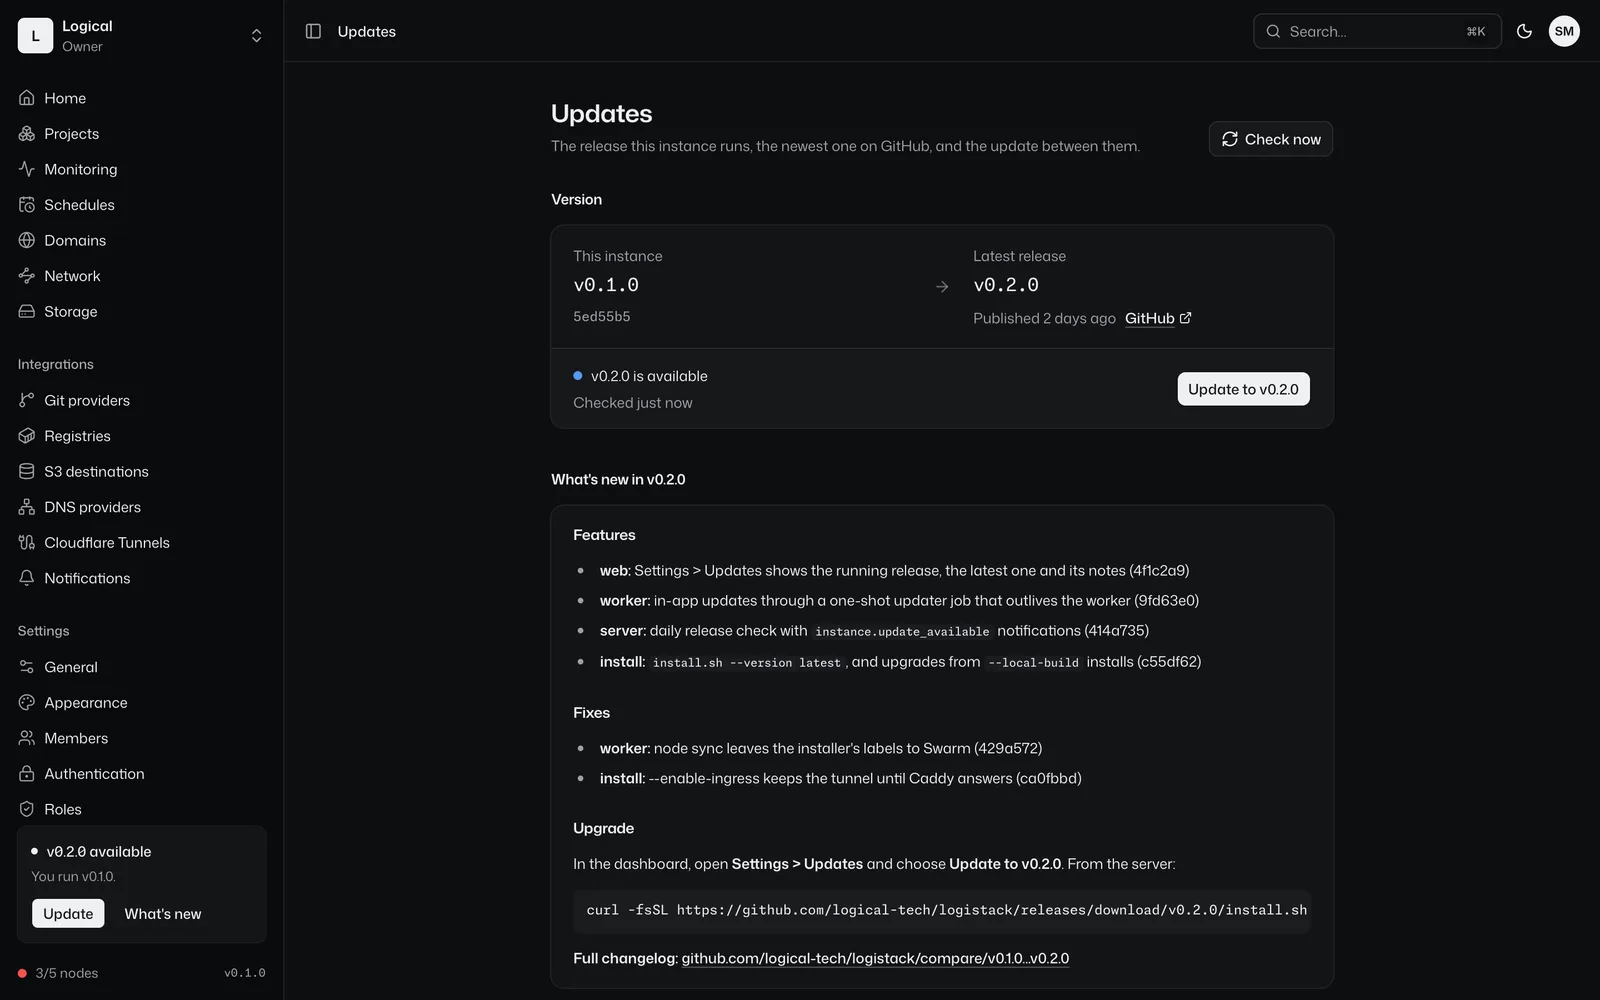
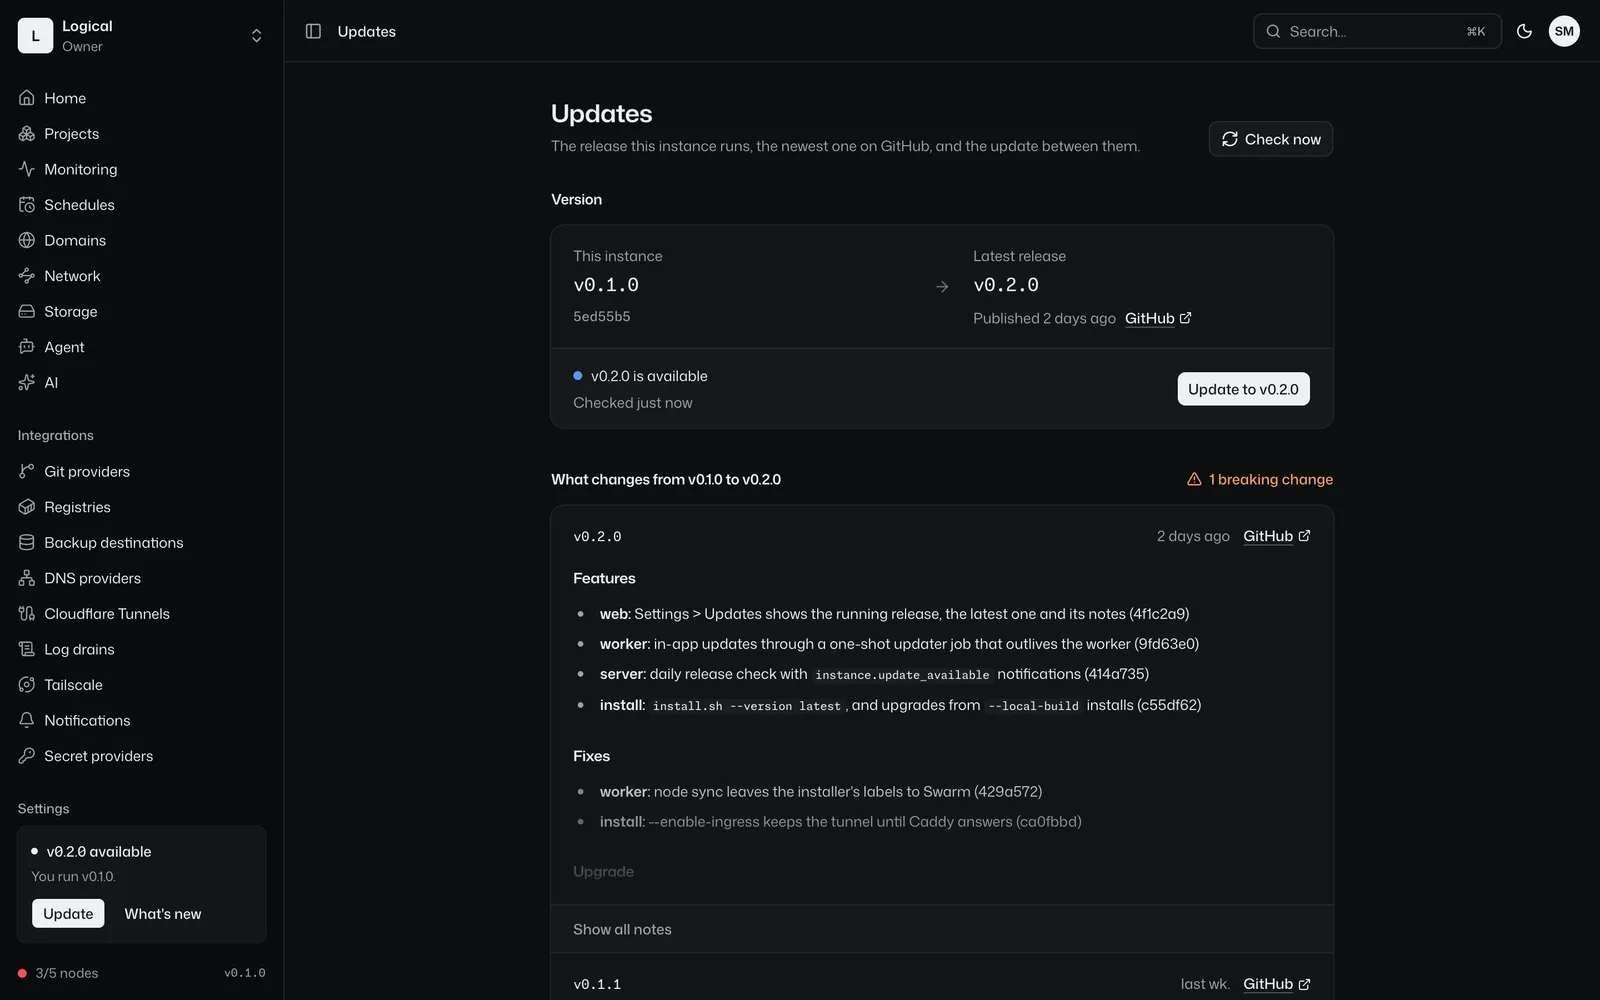
docs: security model, ten-minute migration, no license gates, release channels
Three docs-site pages: how LogiStack avoids shell injection and scopes cleanup, with a
sober comparison against Coolify's and Dokploy's published advisories; the short path
from Dokploy or Coolify through the migration wizard; and what is free under Apache 2.0.
The Updates page covers channels and the changelog, with new screenshots. site/ repeats
the messages in the reconciler table, the migrate section and the FAQ.

diff --git a/site/src/content/faq.ts b/site/src/content/faq.ts
@@ -6,7 +6,7 @@ export const faq = [
 	},
 	{
 		q: "Is LogiStack free?",
-		a: "Yes. LogiStack is open source under the Apache 2.0 license, and every feature is in the build you install: SSO, custom roles, the audit log and multi-node clusters included. There is no paid edition. Sponsors fund development.",
+		a: "Yes. LogiStack is open source under the Apache 2.0 license, and every feature is in the build you install: SSO, custom roles, the audit log and multi-node clusters included. There is no paid edition and no license check in the code; SSO, the audit log and custom roles are not held back under a separate license. Sponsors fund development.",
 	},
 	{
 		q: "What do I need to run it?",
@@ -21,8 +21,12 @@ export const faq = [
 		a: "Postgres, MySQL, MariaDB, MongoDB, Redis and libSQL in one click, each with a built-in editor for tables, keys and documents, scheduled encrypted backups and restore.",
 	},
 	{
-		q: "Can I move from another self-hosted PaaS?",
-		a: "Yes. The importer reads existing projects, env vars and domains, freezes the old setup and moves services one at a time. Each service can be rolled back until you switch the old platform off.",
+		q: "Can I move from Dokploy or Coolify?",
+		a: "Yes, on the same server. Install LogiStack next to Dokploy or Coolify v4 and a wizard reads its projects, databases, env vars and domains, moves services one at a time and then switches ports 80 and 443. Each service can be moved back until you remove the old platform.",
+	},
+	{
+		q: "How does LogiStack avoid the security problems of other PaaS tools?",
+		a: "Most public advisories against self-hosted PaaS tools are root command injection through shell strings and authorization checks missing between teams. LogiStack never builds shell commands from your input: it calls Docker through its API and other tools with argument lists. Every route checks the action and the scope it acts on, cleanup only touches objects LogiStack labeled, and database migrations only add, so a rollback keeps working.",
 	},
 	{
 		q: "Does it work with AI coding agents?",

diff --git a/site/src/components/sections/migrate.tsx b/site/src/components/sections/migrate.tsx
@@ -1,3 +1,4 @@
+import { site } from "@/content/site";
 import { Dither } from "../dither";
 import { Section } from "../ui";
 
@@ -19,10 +20,11 @@ export function Migrate() {
 						Move over one service at a time.
 					</h2>
 					<p className="text-lg leading-relaxed text-fg/90">
-						Already running another self-hosted PaaS? The importer reads its
-						projects, env vars and domains. It freezes the old setup, then moves
-						services across when you say so. The old platform keeps serving
-						until you switch it off.
+						Running Dokploy or Coolify? Install LogiStack next to it and a
+						wizard reads its projects, databases, env vars and domains, then
+						moves services across when you say so. The old platform keeps
+						serving until you switch traffic, and the clicks take about ten
+						minutes.
 					</p>
 					<ol className="flex flex-col gap-3 pt-2">
 						{steps.map(([name, what]) => (
@@ -35,6 +37,12 @@ export function Migrate() {
 							</li>
 						))}
 					</ol>
+					<a
+						href={`${site.docs}operations/migrate-in-ten-minutes/`}
+						className="w-fit text-[15px] font-medium underline decoration-fg/30 underline-offset-4 hover:decoration-fg"
+					>
+						Read the ten-minute migration guide
+					</a>
 				</div>
 				<figure
 					data-ui

diff --git a/docs-site/scripts/screenshots.ts b/docs-site/scripts/screenshots.ts
@@ -111,6 +111,8 @@ export const shots: Record<string, Shot> = {
 	"certificate-origin": "/settings/certificates/origin",
 	"settings-ssh-keys": "/settings/ssh-keys",
 	"settings-updates": "/settings/updates",
+	"settings-updates-changelog": "/settings/updates#changelog",
+	"settings-updates-channel": "/settings/updates#settings",
 	"settings-appearance": "/settings/appearance",
 	"settings-variables": "/settings/variables",
 	"settings-audit-log": "/settings/audit-log",
@@ -126,6 +128,10 @@ export const shots: Record<string, Shot> = {
 	"dns-record-edit": {
 		path: "/integrations/dns/dns_cf_logical/z_logical",
 		click: ["Add record"],
+	},
+	"settings-updates-confirm": {
+		path: "/settings/updates",
+		click: ["Update to v0.2.0"],
 	},
 	"certificate-authority": {
 		path: "/settings/certificates",

diff --git a/site/src/components/sections/closing.tsx b/site/src/components/sections/closing.tsx
@@ -48,9 +48,10 @@ const columns = [
 		[
 			["Documentation", site.docs],
 			["Install", `${site.docs}getting-started/install/`],
-			["Migrate", `${site.docs}operations/migrate-from-dokploy/`],
+			["Migrate", `${site.docs}operations/migrate-in-ten-minutes/`],
 			["Releases", `${site.github}/releases`],
-			["Security", `${site.github}/security`],
+			["Security model", `${site.docs}reference/security-model/`],
+			["No license gates", `${site.docs}reference/no-license-gates/`],
 		],
 	],
 	[

diff --git a/site/src/components/sections/reconciler.tsx b/site/src/components/sections/reconciler.tsx
@@ -17,6 +17,16 @@ const compare = [
 		"On the node that holds the data",
 	],
 	[
+		"A branch is named feature/$(id)",
+		"Can end up in a shell command run as root",
+		"One argv entry, never a shell string",
+	],
+	[
+		"Cleanup runs on a shared server",
+		"Can remove containers and volumes it didn't create",
+		"Only touches objects labeled logistack.managed",
+	],
+	[
 		"You need SSO, roles and an audit log",
 		"Often a paid plan",
 		"In the open-source build, free",

diff --git a/site/src/content/features.ts b/site/src/content/features.ts
@@ -425,7 +425,7 @@ export const areas = (templates: number): Area[] => [
 			],
 			[
 				"Updates",
-				"See what a release changes and update in one click. Choose the stable or beta channel.",
+				"Read the changelog of every release an update crosses, breaking changes first, then update in one click. Choose the stable, beta or nightly channel.",
 			],
 			[
 				"Light and dark",

diff --git a/CONTRIBUTING.md b/CONTRIBUTING.md
@@ -38,6 +38,7 @@ bun run check
 - Never build shell strings. Call Docker through the Engine API and other tools with `Bun.spawn([...argv])`. Pass secrets through env or stdin.
 - Parse external input with zod at the boundary.
 - Do not copy code from Dokploy or Coolify.
+- No feature is gated behind a license, a key or a sponsorship. A change that adds such a check is not merged.
 
 A test that creates Docker objects names them `ls-test-<area>-*`, where `<area>` is your package or app, and labels them `logistack.test=<area>`. Cleanup removes objects by that exact prefix only. A filter on `label=logistack.test` or `name=ls-test-` alone matches other suites, so cleanup code must not use it.
 
